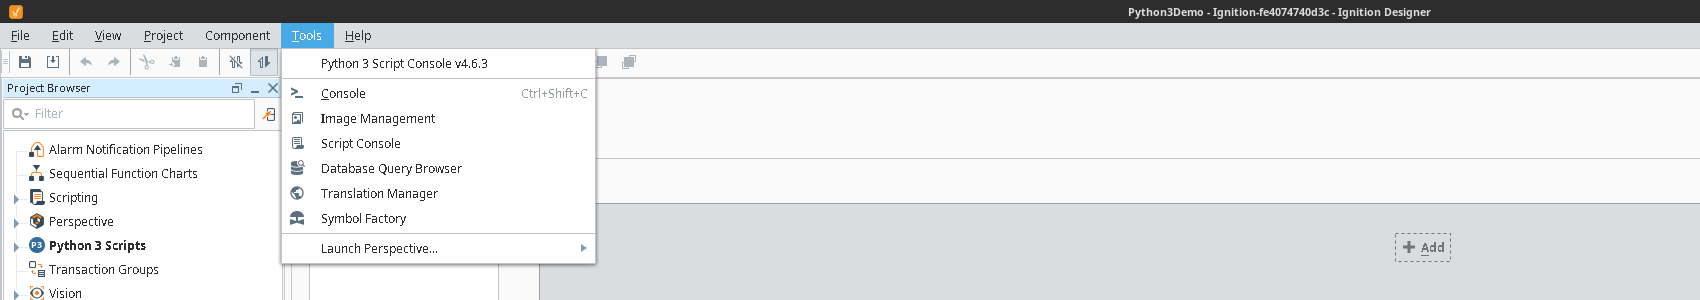
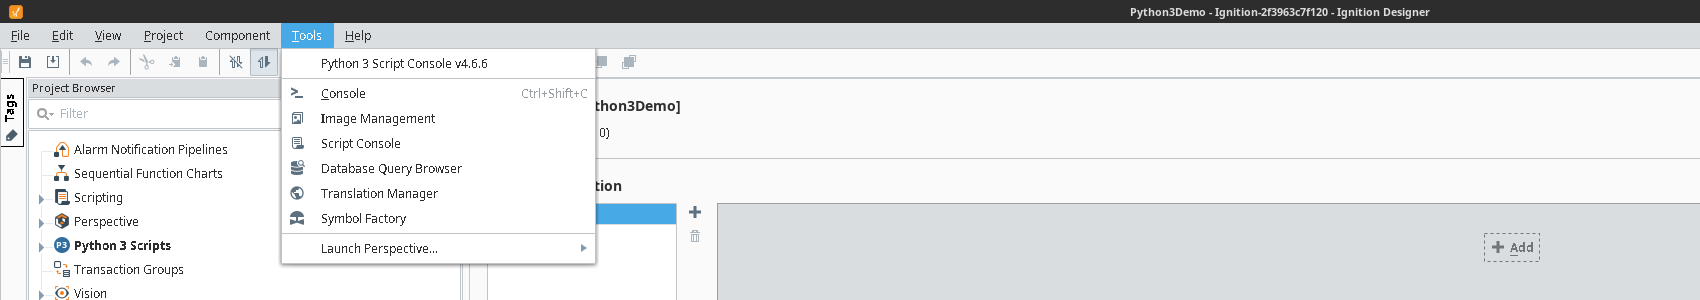
docs(readme): recapture screenshots for 4.6.6

diff --git a/README.md b/README.md
@@ -33,29 +33,29 @@ release decision.
 ![The Gateway Web UI IDE running a pandas/numpy script over 30 days of synthetic production-line data, with its returned summary dict visible in the Output pane](docs/images/ide-script-editor.png)
 *The browser-based IDE: real code, run against a real warm Python 3 process, with the script's own returned result shown inline. No Designer required.*
 
-![Script library tree showing the Demos folder's five scripts, with ProductionStats selected and its full source and description visible](docs/images/script-library.png)
+![Script library tree with a Demos folder of five scripts and a Reports folder of two, ProductionStats selected and its full source and description visible](docs/images/script-library.png)
 *Scripts are organised into folders and are real files on disk — select one to see its source, description and last-modified time.*
 
-![Diagnostics view showing process pool utilisation and a live module log with real recent activity — package installs and session audits](docs/images/diagnostics-view.png)
+![Diagnostics view showing process pool utilisation and a live module log of real recent calls, each audit entry carrying its mode, code hash and duration](docs/images/diagnostics-view.png)
 *Diagnostics: pool utilisation and the module's own log stream — including the per-call audit trail (mode, code hash, duration) — filterable by level.*
 
-![Python Versions view listing Python 3.9 through 3.13, with 3.11, 3.12 and 3.13 shown as installed and the rest available to install](docs/images/python-versions-view.png)
+![Python Versions view listing Python 3.9 through 3.13, with 3.11 (the default, showing its install path), 3.12 and 3.13 installed and the rest available to install](docs/images/python-versions-view.png)
 *Multiple Python versions can be installed side by side; scripts pick which one they run against.*
 
-![Gateway dashboard showing module health as Healthy, process pool size and installed Python version count](docs/images/gateway-dashboard.png)
-*The landing dashboard: module health, process pool and installed versions at a glance.*
+![Gateway dashboard showing module health as Healthy, a pool of three processes, the running Python version and real execution counts — 55 runs at a 23 ms average with no errors](docs/images/gateway-dashboard.png)
+*The landing dashboard: module health, process pool, the running Python version and execution counts at a glance.*
 
 ![Designer Script Console showing the ProductionStats demo script with a completed run and result](docs/images/designer-script-editor.png)
 *The Designer-scope Script Console: the `ProductionStats` demo script,
 syntax-highlighted, run against the same warm process pool as the Web UI — the
 run completed and returned its result dict, shown in the Output pane.*
 
-![Project Browser showing the module's own "Python 3 Scripts" tree node with its Demos folder expanded, and the module's own right-click context menu open over it showing New Script, New Folder, Refresh and Open Script Console — the menu covers several of the script names beneath it](docs/images/designer-project-browser-tree.png)
+![Project Browser showing the module's own "Python 3 Scripts" tree node with its Demos and Reports folders expanded, and the module's own right-click context menu open over it showing New Script, New Folder, Refresh and Open Script Console — the menu covers several of the script names beneath it](docs/images/designer-project-browser-tree.png)
 *Python 3 Scripts is a first-class node in the Designer's Project Browser, not
 a bolted-on window — it gets its own tree icons and its own right-click menu
 alongside the built-in nodes like Perspective and Transaction Groups.*
 
-![The Designer's Tools menu with a "Python 3 Script Console v4.6.2" entry added above the built-in Console and Script Console items](docs/images/designer-tools-menu.png)
+![The Designer's Tools menu with a "Python 3 Script Console v4.6.6" entry added above the built-in Console and Script Console items](docs/images/designer-tools-menu.png)
 *The module registers itself in the Designer's own Tools menu, versioned
 alongside the rest of the built-in tools.*
 
@@ -64,7 +64,7 @@ alongside the rest of the built-in tools.*
 keyword list — it resolves real members of whatever's actually imported,
 with descriptions, in a proper editor popup (Ctrl+Space).*
 
-![The Designer's Diagnostics dialog showing Performance Diagnostics (99 executions, 100% success rate, RAM/CPU, health score 100) and a live, filterable Gateway Logs stream](docs/images/designer-diagnostics.png)
+![The Designer's Diagnostics dialog showing Performance Diagnostics (64 executions, 100% success rate, RAM/CPU, health score 100) and a live, filterable Gateway Logs stream](docs/images/designer-diagnostics.png)
 *A read-only Diagnostics view reachable from the Designer: pool health and
 performance stats plus a live tail of the Gateway's own log, filterable by
 level — no need to leave the Designer to see what the module is doing.*
